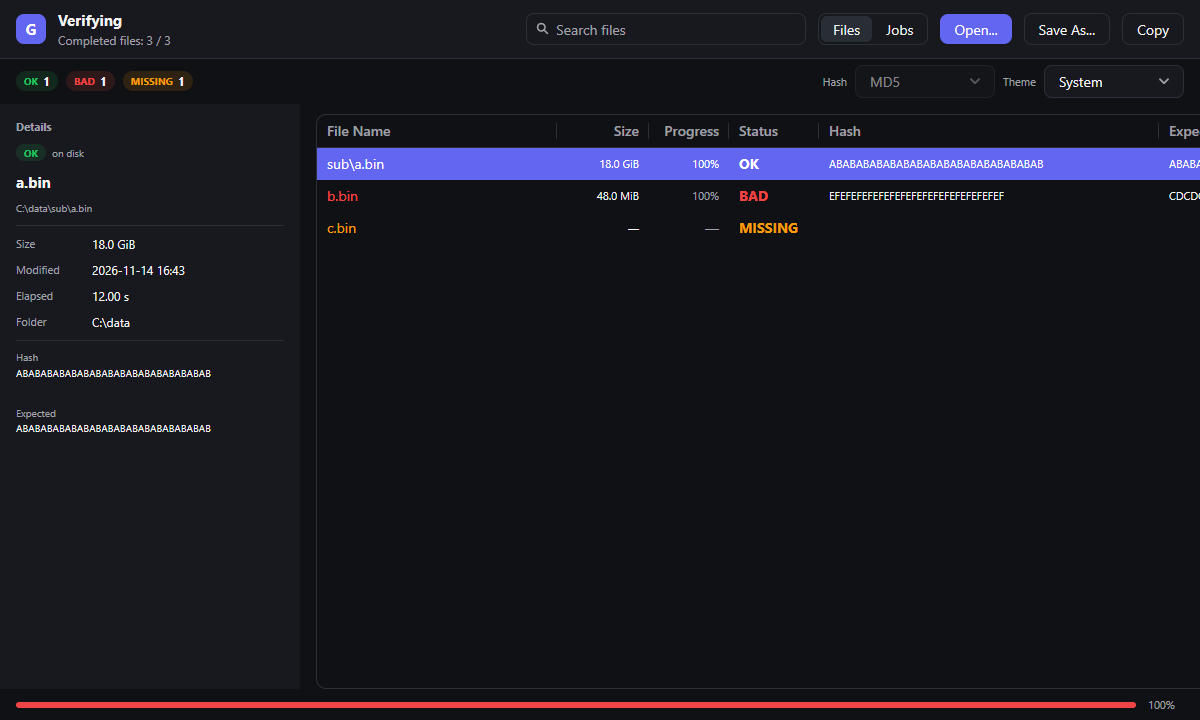
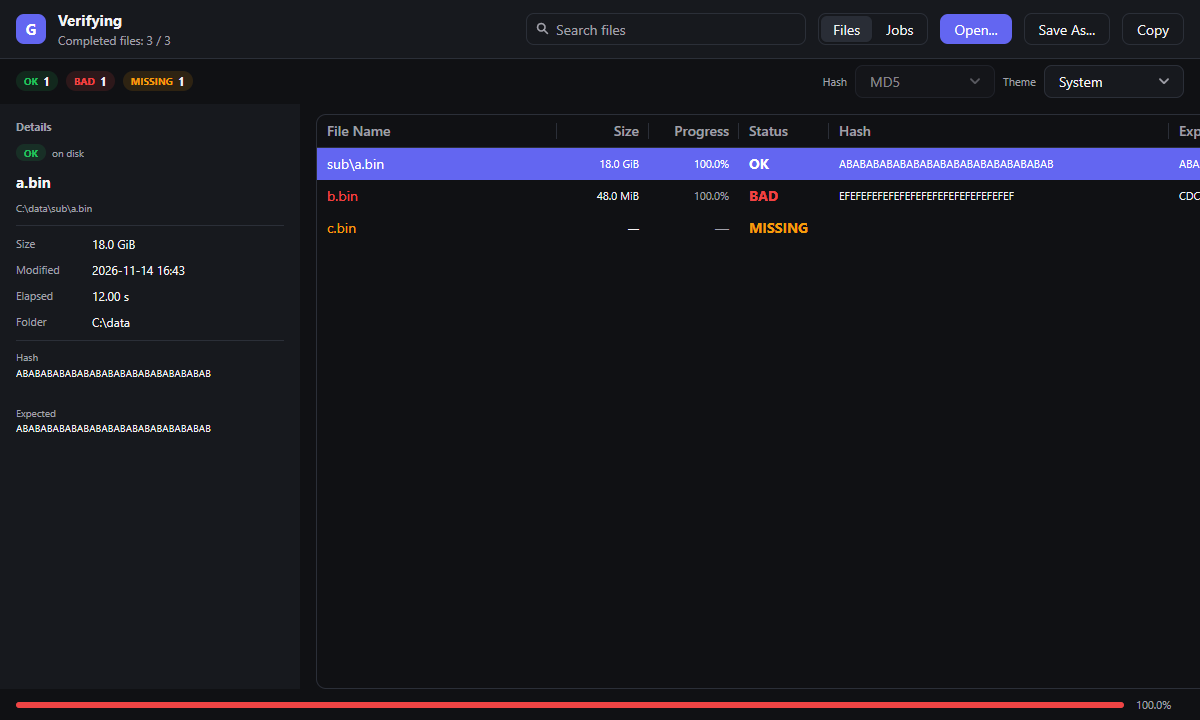
ui: show progress with one decimal place
The table cell, the overall footer and the active-file rows now print 50.0% and 100.0% instead of truncating to whole percent. The native bars already used the float fraction. The Progress column and footer labels were widened to fit.

diff --git a/internal/gui/view.go b/internal/gui/view.go
@@ -371,14 +371,17 @@ func (a *App) fileCell(c *ui.Context, row, col int) {
 		ui.Text(c, size).SingleLine().FontSize(11).TextColor(textColor)
 	case "Progress":
 		if done, total, ok := a.progressOfFile(idx); ok && total > 0 {
-			pct := int(float64(done) / float64(total) * 100)
+			pct := float64(done) / float64(total) * 100
+			if pct > 100 {
+				pct = 100
+			}
 			color := t.Accent
 			if chosen {
 				color = t.AccentText
 			}
-			ui.Textf(c, "%d%%", pct).SingleLine().FontSize(11).Bold().TextColor(color)
+			ui.Textf(c, "%.1f%%", pct).SingleLine().FontSize(11).Bold().TextColor(color)
 		} else if f.Status == model.OK || f.Status == model.Bad {
-			ui.Text(c, "100%").SingleLine().FontSize(11).TextColor(mutedColor)
+			ui.Text(c, "100.0%").SingleLine().FontSize(11).TextColor(mutedColor)
 		} else {
 			ui.Text(c, "—").SingleLine().TextColor(mutedColor)
 		}
@@ -433,7 +436,7 @@ func (a *App) footer(c *ui.Context) {
 		default:
 			p.TextColor(t.Success)
 		}
-		ui.Textf(c, "%d%%", int(frac*100)).FontSize(11).TextColor(t.TextMuted).Width(36)
+		ui.Textf(c, "%.1f%%", frac*100).FontSize(11).TextColor(t.TextMuted).Width(48)
 		if a.processing && a.settings.ShowThroughput {
 			if speed := a.speedText(); speed != "" {
 				ui.Text(c, speed).FontSize(11).TextColor(t.TextMuted).SingleLine()
@@ -485,7 +488,7 @@ func (a *App) activePanel(c *ui.Context) {
 					pct = float64(f.Done) / float64(f.Total)
 				}
 				ui.Progress(c, pct).Width(150)
-				ui.Textf(c, "%3d%%", int(pct*100)).FontSize(11).Width(48)
+				ui.Textf(c, "%.1f%%", pct*100).FontSize(11).Width(56)
 			})
 		}
 		if len(a.activeView) > limit {

diff --git a/internal/gui/app.go b/internal/gui/app.go
@@ -397,7 +397,7 @@ func (a *App) refreshColumns() {
 	cols := []ui.TableColumn{
 		{Title: "File Name", ID: "Name", Width: 0, MinWidth: 240, MaxWidth: 520, Sortable: true},
 		{Title: "Size", ID: "Size", Width: 92, MinWidth: 70, Align: ui.End, Sortable: true},
-		{Title: "Progress", ID: "Progress", Width: 80, MinWidth: 64, Align: ui.End, Sortable: true},
+		{Title: "Progress", ID: "Progress", Width: 90, MinWidth: 72, Align: ui.End, Sortable: true},
 		{Title: "Status", ID: "Status", Width: 90, MinWidth: 70, Sortable: true},
 	}
 	if a.settings.ShowHashCol {

diff --git a/internal/gui/gui_test.go b/internal/gui/gui_test.go
@@ -214,7 +214,7 @@ func TestViewShowsSizeAndProgress(t *testing.T) {
 	a.active[0] = activeFile{Name: "a.bin", Done: 50, Total: 100}
 	a.mu.Unlock()
 	tt := ui.NewTester(a.view, 1400, 720)
-	for _, text := range []string{"1.5 KiB", "1.0 MiB", "50%", "100%"} {
+	for _, text := range []string{"1.5 KiB", "1.0 MiB", "50.0%", "100.0%"} {
 		if !tt.HasText(text) {
 			t.Errorf("table does not show %q; texts: %v", text, tt.Texts())
 		}
